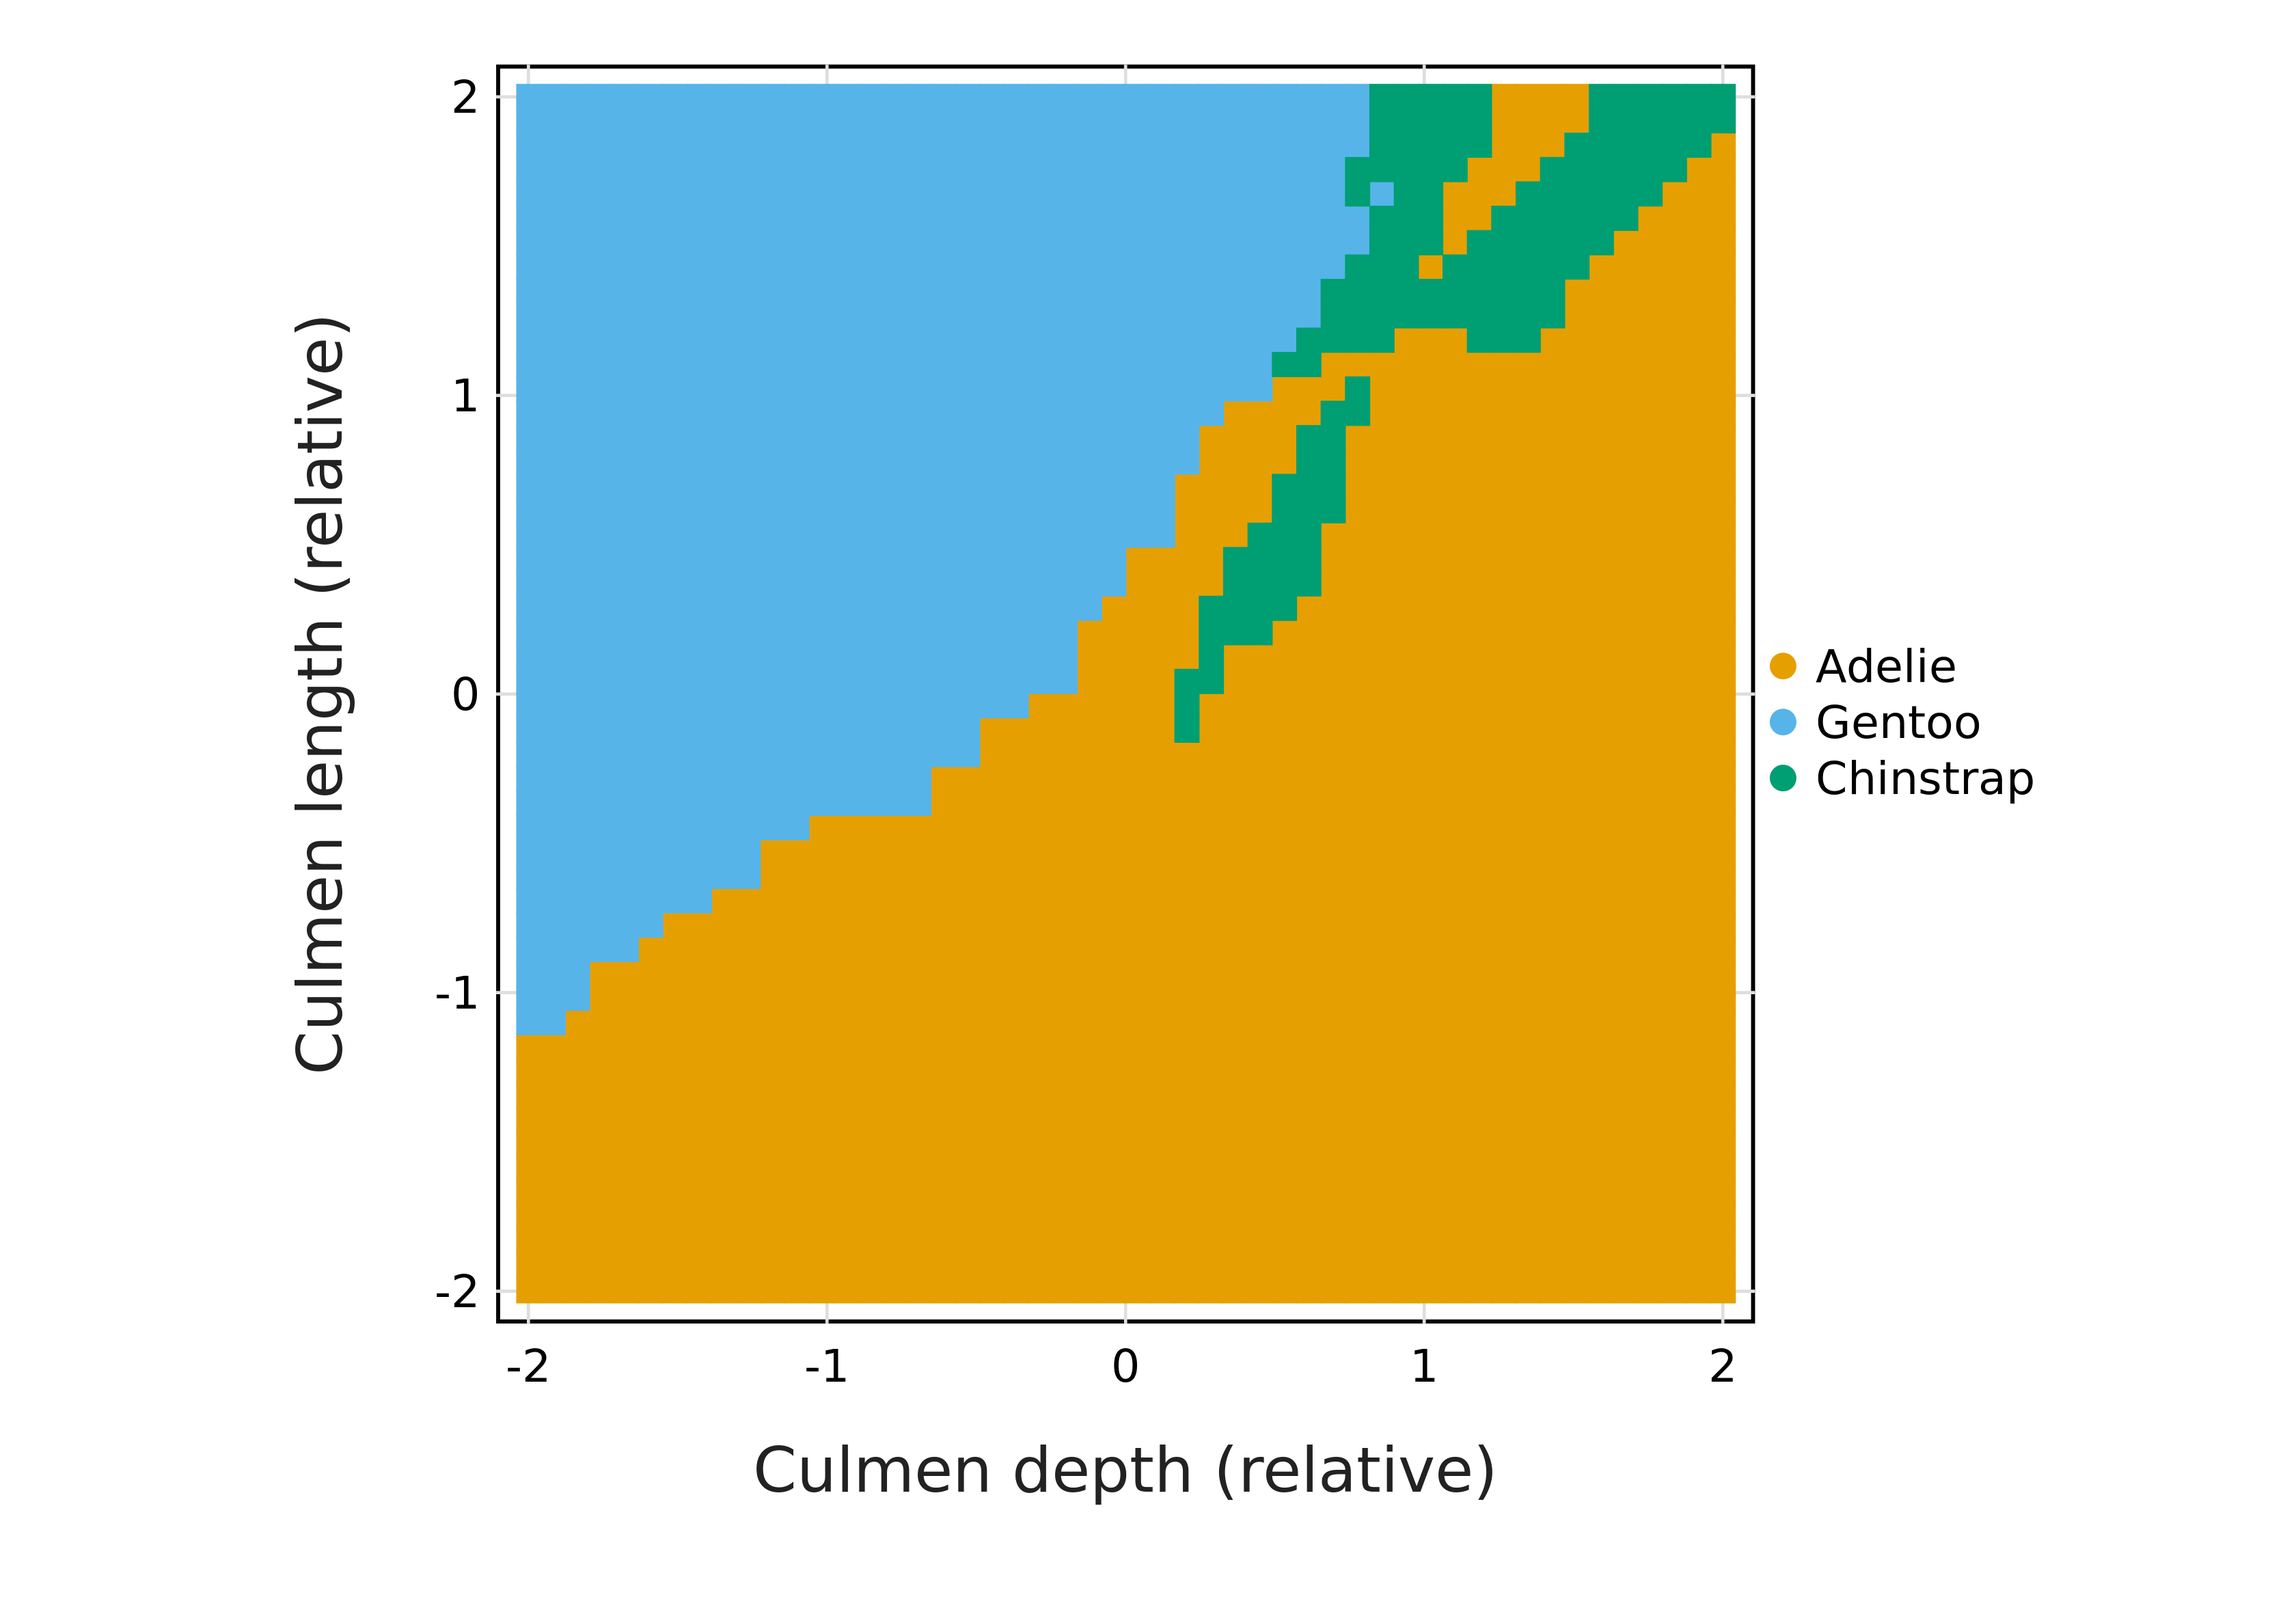
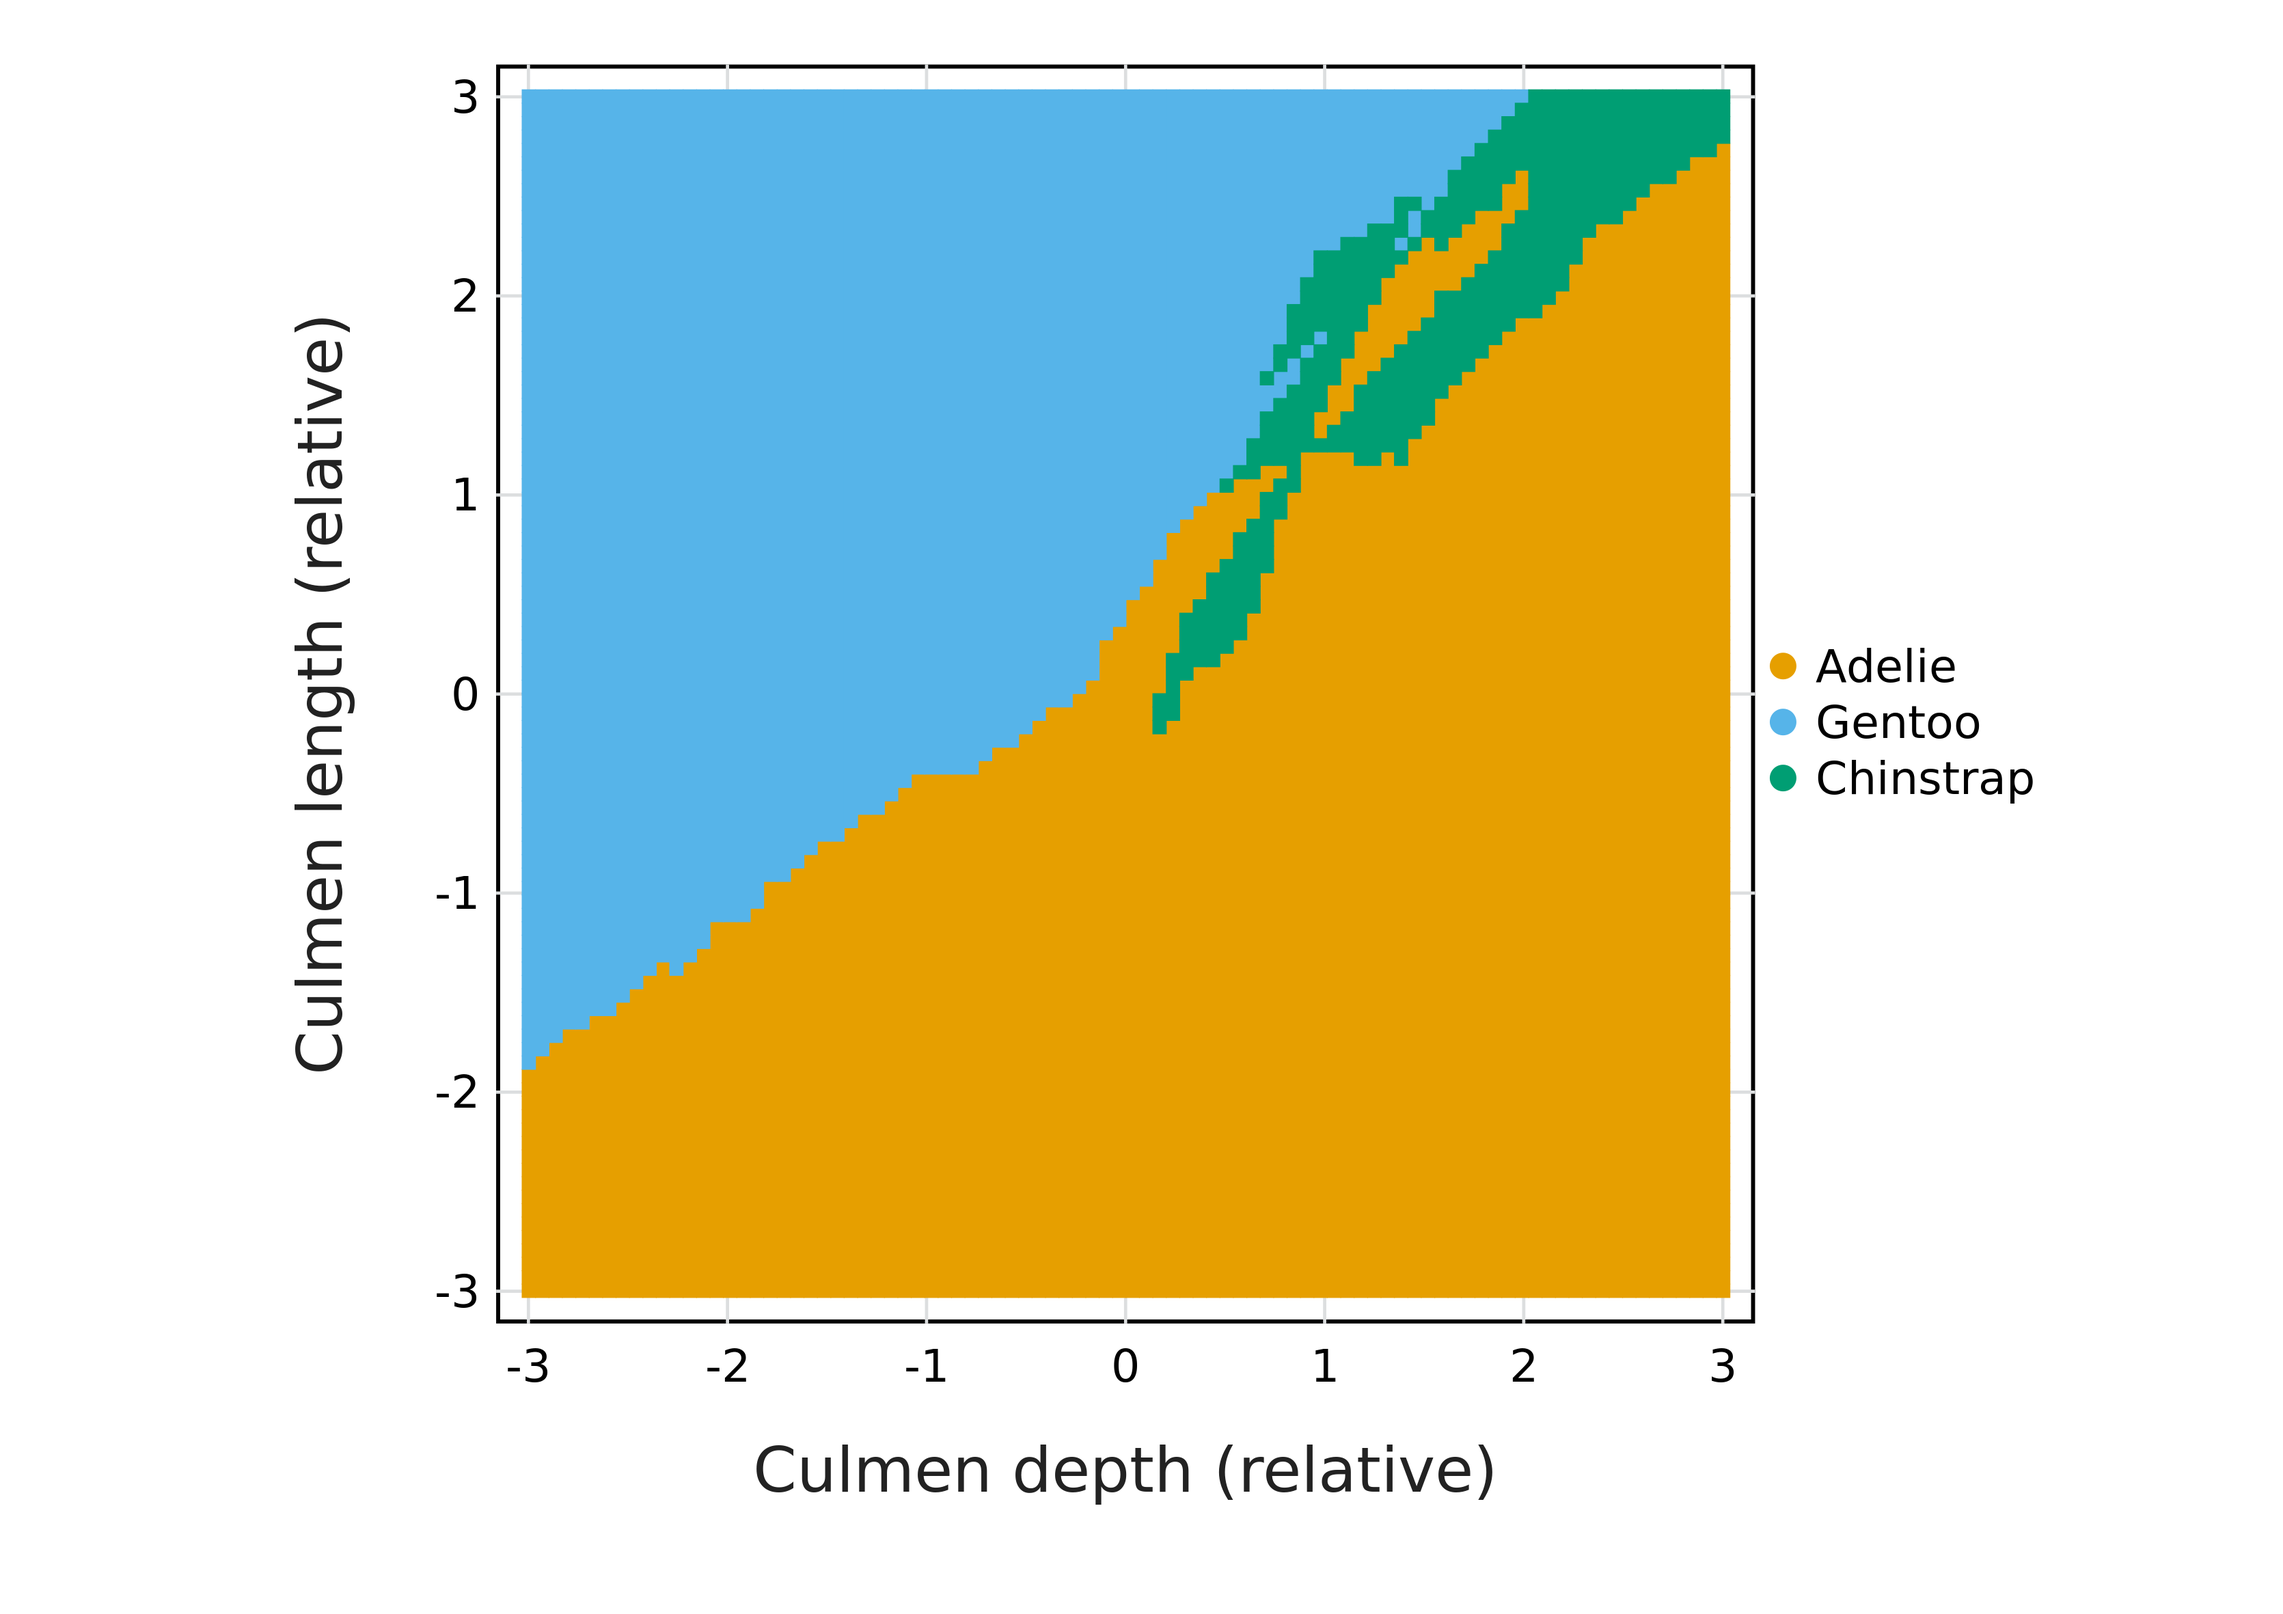
larger fig

diff --git a/docs/01_knn.md b/docs/01_knn.md
@@ -381,7 +381,7 @@ We will assume that we know of *two* values, and ignore two others:
 
 
 ```julia
-ftval = LinRange(-2, 2, 50)
+ftval = LinRange(-3, 3, 90)
 ftcomb = vec(collect(Base.product(ftval, ftval)))
 decisions = []
 for (f1, f2) in ftcomb
@@ -414,7 +414,7 @@ plot(
     Guide.xlabel("Culmen depth (relative)"),
     Guide.ylabel("Culmen length (relative)"),
     Coord.cartesian(
-        xmin=-2, xmax=2, ymin=-2, ymax=2, fixed=true
+        xmin=-3, xmax=3, ymin=-3, ymax=3, fixed=true
     )
 ) |> PNG("figures/knnsim.png", dpi=600)
 ```

diff --git a/docs/00_data.md b/docs/00_data.md
@@ -584,10 +584,10 @@ using UUIDs #Part of the standard library
 
 ```
 4-element Vector{Base.UUID}:
- UUID("ed557d71-c657-444c-8ed2-8672223feb52")
- UUID("b8afeedc-647f-45cd-afc0-8e40585b33d1")
- UUID("b7524173-8142-44f9-a53a-897e7e360f43")
- UUID("72a24000-df74-4456-b47e-ac9189e2a582")
+ UUID("1102d464-ed2a-497a-b4b9-a0f6a8640ff9")
+ UUID("792c7687-cdcf-48c6-9f37-398c771f4096")
+ UUID("239b2874-8057-4432-ab35-485ff3c7338f")
+ UUID("c2f1f266-7bc0-46c8-a34b-d46dcdbe19cc")
 ```
 
 
